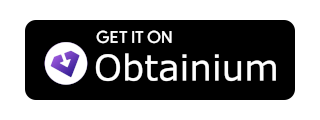
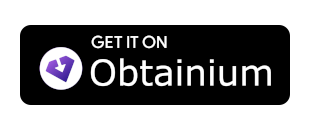
Matching obtainium's and github's badge

Changed region(s): [[0.0871, 0.15, 0.9581, 0.85], [0.2903, 0.25, 0.5516, 0.375], [0.0581, 0.2, 0.0871, 0.8]]

diff --git a/README.md b/README.md
@@ -6,7 +6,7 @@ Amethyst brings the best social network to your Android phone. Just insert your 
 
 [<img src="./docs/design/obtainium.png"
 alt="Get it on Obtaininum"
-height="75">](https://github.com/ImranR98/Obtainium)
+height="80">](https://github.com/ImranR98/Obtainium)
 [<img src="https://github.com/machiav3lli/oandbackupx/raw/034b226cea5c1b30eb4f6a6f313e4dadcbb0ece4/badge_github.png" alt="Get it on GitHub"
 height="80">](https://github.com/vitorpamplona/amethyst/releases)
 
